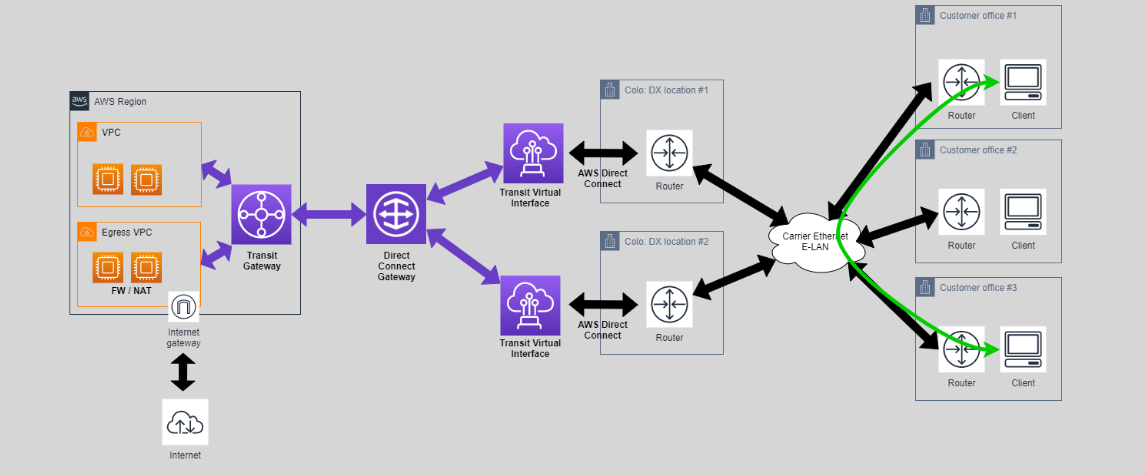
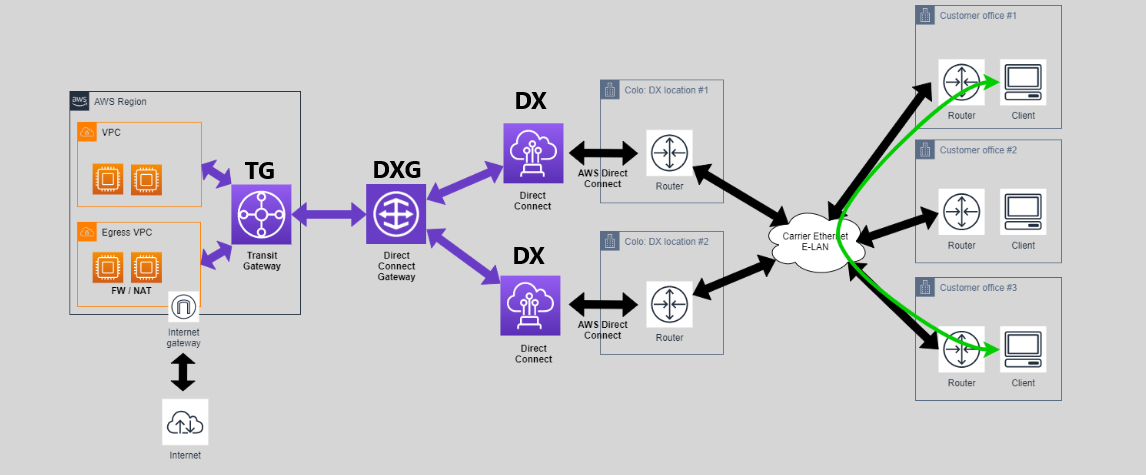
vpc

diff --git a/5-cloud Providers/aws/aws-services/network/vpc/9.4.aws-direct-connect.md b/5-cloud Providers/aws/aws-services/network/vpc/9.4.aws-direct-connect.md
@@ -1,29 +1,36 @@
-# **AWS Direct Connect** 🔌
+# **🔌 AWS Direct Connect**
 
 **AWS Direct Connect** is a cloud service that creates a **private, dedicated connection** from your on-premises network (such as a data center) to AWS. Unlike typical internet-based connections, **Direct Connect** bypasses the public internet for **better performance, reliability, and security**.
 
-![AWS Direct Connect](images/aws-direct-connect.png)
+---
 
-## **Key Features of AWS Direct Connect** 🏆
+<div style="text-align: center;">
+    <img src="images/aws-direct-connect.png" alt="AWS Direct Connect" style="border-radius: 10px;">
+</div>
 
-1. **Private Connection** 🌐:
+---
+
+## **🏆 Key Features of AWS Direct Connect**
+
+1. **🌐 Private Connection** :
 
    - **Direct Connect** provides a **private link** from your infrastructure to AWS, reducing the need for public internet traffic.
    - This ensures **lower latency** and **better performance**.
+   - You Can `Only` use **BGP** for sharing Routing (Static Routing not Allowed in DX)
 
-2. **Improved Performance** 🚀:
+2. **🚀 Improved Performance** :
 
    - With **Direct Connect**, you get a **faster** and more **consistent** connection compared to using the internet.
 
-3. **Cost and Provisioning** 💵:
+3. **💰 Cost and Provisioning** :
 
    - While **Direct Connect** is generally more **expensive** and takes **longer to provision**, it is an ideal solution for enterprises needing better connectivity.
 
-4. **Not Encrypted by Default** 🔒:
+4. **🔓 Not Encrypted by Default** :
 
-   - **Direct Connect** provides a **private** connection, but it does not automatically **encrypt** your data. For encryption, you can use **IPSec VPN** or other methods.
+   - **Direct Connect** provides a **private** connection, but it does not automatically **encrypt** your data. and it can be stolen from Telecom Provider Employees. For encryption, you can use **IPSec VPN** or other methods.
 
-5. **Virtual Interfaces (VIFs)** 🔑:
+5. **🚃 Virtual Interfaces (VIFs)** :
 
    - **VIFs** are logical connections that define how traffic flows from your on-premises network to AWS.
      - **Private VIF**: Connects to your **VPC**, allowing private communication with AWS resources like EC2.
@@ -31,17 +38,21 @@
 
    **Note**: A **VIF** uses **VLAN tags** to ensure traffic flows correctly between the two ends.
 
-## **Components of AWS Direct Connect** ⚙
+## **⚙ Components of AWS Direct Connect**
 
-![AWS Direct Connect Components](images/aws-direct-connect-components.png)
+<div style="text-align: center;">
+    <img src="images/aws-direct-connect-components.png" alt="AWS Direct Connect Components" style="border-radius: 10px;">
+</div>
 
-### **1. Dedicated Connections** 🔌
+---
+
+### **🔌 1. Dedicated Connections**
 
 - A **dedicated physical link** from your on-premises network to AWS via a **telecom provider**.
 - Provides **low-latency**, **consistent bandwidth**, and **private communication**.
 - Speeds range from **1 Gbps to 10 Gbps**, depending on the customer's needs.
 
-### **2. Virtual Interfaces (VIFs)** 🔑
+### **🚃 2. Virtual Interfaces (VIFs)**
 
 - **Virtual Interfaces** (VIFs) are used to control traffic flow between AWS and your on-premises network.
 
@@ -53,64 +64,79 @@
   **Public VIF**:
 
   - Provides access to **AWS public services** like **S3**, **DynamoDB**.
-  - Allows you to directly reach AWS’s **public endpoints** without routing traffic over the internet.
+  - Allows you to directly reach AWS’s **public endpoints** `without routing traffic over the internet`.
 
 - **VIFs** use **VLAN tags** to specify and control the type of traffic flowing through the connection.
 
-  ![High Availability Diagram](images/vif.png)
+<div style="text-align: left;">
+    <img src="images/vif.png" alt="AWS Direct Connect Virtual Interfaces" style="border-radius: 10px;padding: 0 40px">
+</div>
 
-## **Creating AWS Direct Connect** 🛠
+## **🛠 Creating AWS Direct Connect**
 
-1. **Set Up a Direct Connect Location** 🌐:
+1. **1⃣ Set Up a Direct Connect Location** :
 
    - Choose from multiple AWS Direct Connect locations worldwide.
    - Select the location closest to your on-premises network to minimize latency.
 
-2. **Request and Provision the Connection** 🔄:
+2. **2⃣ Request and Provision the Connection** :
 
    - Go to the AWS **Management Console** and request a **Direct Connect** connection.
    - AWS assigns a **port** at your chosen location, and a **telecom provider** connects your on-premises network to AWS. This process may take a few weeks.
 
-3. **Configure Virtual Interfaces (VIFs)** 💻:
+3. **3⃣ Configure Virtual Interfaces (VIFs)** :
 
    - Once the connection is established, configure **Private VIF** for accessing your **VPC** and **Public VIF** for connecting to **AWS public services**.
 
-4. **Configure BGP** 🌍:
+4. **4⃣ Configure BGP** :
    - **BGP (Border Gateway Protocol)** helps exchange routing information between AWS and your on-premises network, ensuring traffic flows smoothly and efficiently.
 
-## **High Availability and Fault Tolerance** 🛡
+## **🛡 High Availability and Fault Tolerance**
 
 AWS **Direct Connect** supports **high availability** configurations to ensure your connection remains reliable.
 
 - **2DX, 1 Customer Gateway (Active/Active or Active/Standby)**
 
   - Provides redundancy and ensures the connection stays up even if one link fails.
-    ![High Availability Diagram](images/aws-direct-connect-ha-1.png)
 
-* **2DX, 2 Customer Gateways (Active/Active or Active/Standby)**
+<div style="text-align: left;">
+    <img src="images/aws-direct-connect-ha-1.png" alt="High Availability Diagram" style="border-radius: 10px;padding: 0 80px">
+</div>
+
+- **2DX, 2 Customer Gateways (Active/Active or Active/Standby)**
 
   - Increases fault tolerance by adding another gateway, ensuring zero downtime.
-    ![High Availability Diagram](images/aws-direct-connect-ha-2.png)
+
+<div style="text-align: left;">
+    <img src="images/aws-direct-connect-ha-2.png" alt="High Availability Diagram" style="border-radius: 10px;padding: 0 80px">
+</div>
 
 - **1DX, 1 VPN**
 
   - A backup VPN connection provides additional redundancy in case the Direct Connect link fails.
-    ![High Availability Diagram](images/aws-direct-connect-ha-3.png)
+
+<div style="text-align: left;">
+    <img src="images/aws-direct-connect-ha-3.png" alt="High Availability Diagram" style="border-radius: 10px;padding: 0 80px">
+</div>
 
 ## **Link Speeds & Link Aggregation Groups (LAG)** 💰
 
+- You Can Request a **dedicated connection** of speed 1Gbps or 10Gbps.
+
+- You can also request a **hosted(shared) connection** that can start at 50Mbps.
+
 - **LAG** improves throughput by aggregating multiple **Direct Connect** links into a single logical connection.
 
-  ![LAG](images/aws-direct-connect-lags.png)
+<div style="text-align: left;">
+    <img src="images/aws-direct-connect-lags.png" alt="Link Aggregation Group" style="border-radius: 10px;padding: 0 80px">
+</div>
 
-- **Link Aggregation Groups (LAGs)** allow you to combine up to **4 connections** of the same speed for improved reliability and bandwidth.
+- **Link Aggregation Groups (LAGs)** allow you to combine up to **4 connections** of the `same speed` for improved reliability and bandwidth.
 
 - **Speed Options**:
   - **1 Gbps** to **10 Gbps** speeds available.
   - LAG increases throughput by aggregating multiple **Direct Connect** links, making the connection faster and more reliable.
 
-## **Conclusion** 📚
+## **📚 Conclusion**
 
 **AWS Direct Connect** offers a **private, dedicated connection** that provides **faster**, **more reliable**, and **secure** connections between your on-premises network and AWS. It’s an ideal choice for businesses with high-bandwidth needs, such as **large data transfers** and **enterprise applications**. By providing a **low-latency** and **private** network connection, it enhances performance and reliability compared to public internet connections.
-
-With options like **VIFs**, **BGP routing**, and **Link Aggregation Groups**, **AWS Direct Connect** ensures scalability, flexibility, and high availability for your network infrastructure.

diff --git a/5-cloud Providers/aws/aws-services/network/vpc/9.5.aws-direct-connect-gateway.md b/5-cloud Providers/aws/aws-services/network/vpc/9.5.aws-direct-connect-gateway.md
@@ -1,10 +1,19 @@
-# **AWS Direct Connect Gateway** 🌐
+# **🌐 AWS Direct Connect Gateway**
 
 **AWS Direct Connect Gateway** is a powerful tool for establishing secure and reliable connectivity between your **on-premises** environment and **AWS VPCs** across different **regions**. It enables seamless communication with your VPCs, regardless of their location, and supports multiple VPCs and regions in a centralized manner.
 
-![alt text](images/aws-dx-gateway.png)
+- `Your On-Premises Network can speak individual for any VPC that Connected with DXG.`
+- `But Those VPCs Can't speaks each other from DXG.`
 
-## **What is Direct Connect Gateway?** 🛣 🔌
+---
+
+<div style="text-align: center;">
+    <img src="images/aws-dx-gateway.png" alt="AWS Direct Connect Gateway" style="border-radius: 10px;">
+</div>
+
+---
+
+## **🛣 What is Direct Connect Gateway?**
 
 **AWS Direct Connect Gateway** is a global resource designed to facilitate private and secure connectivity between your **on-premises data center** and **AWS VPCs**, even if those VPCs are in different AWS regions.
 
@@ -12,7 +21,7 @@
 - **Private Virtual Interface (VIF)**: You can connect to VPCs using a private VIF that is attached to a Direct Connect Gateway.
 - **VPC and Transit Gateway Association**: Direct Connect Gateway can be associated with **Virtual Gateways (VGWs)** or **Transit Gateways** to connect multiple VPCs within a region.
 
-## **How It Works** 🔧
+## **🔧 How It Works**
 
 1. **Direct Connect Gateway Setup**:
 
@@ -27,9 +36,15 @@
 3. **Redundancy and High Availability**:
    - For high availability, AWS recommends using two **Transit VIFs** from two different **Direct Connect locations**. This provides fault tolerance and ensures your connection remains stable even if one Direct Connect location goes down.
 
-## **Direct Connect Gateway Components** 🔑
+---
 
-![alt text](images/aws-dx-gateway-components.png)
+## **🔑 Direct Connect Gateway Components**
+
+<div style="text-align: center;">
+    <img src="images/aws-dx-gateway-components.png" alt="AWS Direct Connect Gateway Components" style="border-radius: 10px;">
+</div>
+
+---
 
 1. **Private Virtual Interface (Private VIF)**:
 
@@ -45,9 +60,12 @@
 
    - A **centralized hub** that simplifies the routing of traffic between multiple VPCs and on-premises networks.
    - Multiple VPCs from different regions can be attached to the same transit gateway for seamless traffic routing.
-     ![alt text](images/aws-dx-gateway-with-transit-gateway.png)
 
-## **Use Case and Benefits** 📈
+<div style="text-align: center;">
+    <img src="images/aws-dx-gateway-with-transit-gateway.png" alt="AWS Direct Connect Gateway with Transit Gateway" style="border-radius: 10px;padding: 0 80px">
+</div>
+
+## **📈 Use Case and Benefits**
 
 - **Multiple VPC Connectivity**: Instead of managing several individual VPC connections, Direct Connect Gateway allows you to **centralize and simplify** the connection process. You can connect to **tens or even hundreds of VPCs** using a single Direct Connect link.
 - **Reduced Latency and Improved Performance**: By using **private connections**, Direct Connect Gateway ensures that traffic between your on-premises environment and AWS is fast, reliable, and free from the delays introduced by the public internet.
@@ -58,21 +76,23 @@
 - **Data Transfer**: The cost for **data transfer** depends on the region, and data is charged per **GB**.
 - **Direct Connect Charges**: You will incur **hourly charges** for maintaining the Direct Connect link and additional charges for the **Transit VIF**.
 
-## **Service Quotas** ⚖
+## **⛔ Service Quotas**
 
-Here are some key limits for **Direct Connect Gateway**:
+<div style="margin: 0 auto; width: fit-content;">
 
-| **Service**                             | **Quota**                       |
-| --------------------------------------- | ------------------------------- |
-| **Transit Gateways per account**        | 5 per account                   |
-| **VPCs per Transit Gateway**            | 5 per VPC                       |
-| **Unique Transit Gateway Attachments**  | 5 per VPC                       |
-| **VIFs per Direct Connect connection**  | 50 per connection               |
-| **VGWs per Direct Connect Gateway**     | 10 VGWs per gateway             |
-| **Transit VIFs per Direct Connect**     | 1 per Direct Connect connection |
-| **Transit Gateways per Direct Connect** | 3 per Direct Connect gateway    |
+| **Service**                             | **Quota**                          |
+| --------------------------------------- | ---------------------------------- |
+| **Transit Gateways per account**        | 5 per account                      |
+| **VPCs per Transit Gateway**            | 5 per VPC                          |
+| **Unique Transit Gateway Attachments**  | 5 per VPC                          |
+| **VIFs per Direct Connect connection**  | 50 per connection                  |
+| **VGWs per Direct Connect Gateway**     | `10 VGWs per DXG`                  |
+| **Transit VIFs per Direct Connect**     | `1 transit VIFs per DX connection` |
+| **Transit Gateways per Direct Connect** | `3 TG per DXG`                     |
 
-## **Summary** 📝
+</div>
+
+## **📝 Summary**
 
 - **AWS Direct Connect Gateway** is a powerful and efficient solution for connecting on-premises networks to multiple AWS VPCs across regions.
 - With features like **high availability**, **centralized management**, and **low latency**, it provides a cost-effective and reliable way to scale your hybrid cloud architecture.

diff --git a/5-cloud Providers/aws/aws-services/network/vpc/10.aws-wavelength.md b/5-cloud Providers/aws/aws-services/network/vpc/10.aws-wavelength.md
@@ -1,30 +1,38 @@
-# **AWS Wavelength** 🌐
+# **🛜 AWS Wavelength (5G)**
 
 **AWS Wavelength** is a service designed to bring **AWS compute and storage services** closer to end-users, enabling ultra-low latency applications by extending **AWS infrastructure** to the **edge of telecommunication networks**. This is particularly beneficial for applications that require real-time responses, such as those used in **5G networks** and **mobile devices**.
 
-![alt text](images/aws-wavelength.png)
+---
 
-## **What is AWS Wavelength?** 🚀
+<div style="text-align: center;">
+    <img src="images/aws-wavelength.png" alt="AWS Wavelength" style="border-radius: 10px;"/>
+</div>
+
+## **🚀 What is AWS Wavelength?**
 
 - **AWS Wavelength** integrates **AWS services** with **telecom carrier 5G networks**, providing ultra-low latency for applications that need to respond in near real-time.
 - It brings **compute, storage, and AWS services** closer to mobile and edge devices, allowing for applications to run closer to end-users.
 - A **Wavelength Zone** is a specialized **availability zone** located within a telecommunications carrier's network infrastructure. These zones are connected to AWS regions, allowing them to access other AWS services.
 
-  ![alt text](images/aws-wavelength-components.png)
+<div style="text-align: center;">
+    <img src="images/aws-wavelength-components.png" alt="Components in the Wavelength Zone" style="border-radius: 10px;"/>
+</div>
 
-### **Wavelength Zones and VPCs** 🖧
+---
+
+### **🖧 Wavelength Zones and VPCs**
 
 - AWS customers can opt in to use **Wavelength Zones** within supported regions.
 - **VPCs** can be extended to one or more Wavelength Zones to leverage low-latency communication directly within the carrier network.
 - A **Carrier Gateway** is used to route traffic to/from Wavelength Zones, providing high-speed, bidirectional communication with mobile devices and on-premises resources.
 
-## **How Does AWS Wavelength Impact Application Latencies?** ⏱
+## **⏱ How Does AWS Wavelength Impact Application Latencies?**
 
 - **5G networks** deliver significant performance improvements over **4G networks**, providing speeds **up to 10 times faster**.
 - Running **real-time applications** in the cloud from a centralized AWS region can lead to higher latencies, particularly for telecom provider-connected users and IoT devices.
 - By using **Wavelength**, applications can be deployed at the **edge of the telecom provider’s network**, drastically reducing the latency for applications that need to process real-time data, like **live streaming**, **gaming**, or **smart manufacturing**.
 
-## **Carrier Gateway** 🔌
+## **🔌 Carrier Gateway**
 
 The **Carrier Gateway** provides connectivity between the **Wavelength Zone** and the **internet**. Here’s how it works:
 
@@ -33,13 +41,13 @@ The **Carrier Gateway** provides connectivity between the **Wavelength Zone** an
 - It should be configured as the **default gateway** (0.0.0.0/0) in the **Wavelength Zone's** route table.
 - The gateway **performs NAT (Network Address Translation)** on the **Wavelength instances’ IP addresses**, mapping them to the **Carrier IP addresses** assigned by the telecom provider.
 
-### **Components in the Wavelength Zone** 🔧
+### **🔧 Components in the Wavelength Zone**
 
 - **Wavelength instances** (EC2) run at the edge of the telecom network.
 - **Storage** like **EBS** (Elastic Block Storage) is also available within the zone for high-speed access.
 - AWS services like **ECS**, **EKS**, and **CloudWatch** can be used to monitor and scale your applications in real-time.
 
-## **Supported AWS Services** 🛠
+## **🛠 Supported AWS Services**
 
 AWS Wavelength extends several AWS services to the edge, including:
 
@@ -51,7 +59,7 @@ AWS Wavelength extends several AWS services to the edge, including:
 - **CloudTrail** for auditing and logging
 - **CloudFormation** for infrastructure provisioning
 
-## **Use Cases for AWS Wavelength** 🎮
+## **🎮 Use Cases for AWS Wavelength**
 
 AWS Wavelength is ideal for a wide range of real-time, latency-sensitive applications, such as:
 
@@ -62,6 +70,6 @@ AWS Wavelength is ideal for a wide range of real-time, latency-sensitive applica
 - **Real-Time Gaming**: Multiplayer online games requiring low-latency interactions.
 - **AI/ML in Healthcare**: Real-time healthcare data analysis for fast decision-making.
 
-## **Conclusion** 📚
+## **📚 Conclusion**
 
 **AWS Wavelength** enables ultra-low latency applications by placing AWS compute and storage services at the **edge of telecom networks**, directly connecting to **5G** and **mobile devices**. It’s a game-changer for industries that require **real-time processing**, including **gaming, media, and IoT**. With **AWS Wavelength**, businesses can deliver **faster, more responsive applications**, benefiting from the power of AWS while minimizing network latency.
